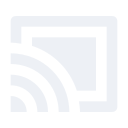
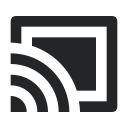
dark

diff --git a/style.css b/style.css
@@ -3,11 +3,11 @@
 }
 
 body {
-	background-color: #edf0f5 !important;
+	background-color: #242526 !important;
 }
 
 html {
-	background-color: #edf0f5;
+	background-color: #242526;
 	margin-left: 15%;
 	margin-right: 15%;
 }
@@ -16,7 +16,7 @@ html {
 .block {
 	margin-top: 7%;
 	margin-bottom: 1%;
-	background-color: #edf0f5 !important;
+	background-color: #242526 !important;
 }
 
 .section-title h2 {
@@ -36,9 +36,9 @@ html {
 
 .card {
 	border: 0px #eef2f7 !important;
-	background-color: #ffffff !important;
+	background-color: #303030 !important;
 	border-radius: 0.7vh !important;
-	box-shadow: 0 0.375rem 0.75rem rgba(0, 0, 0, 0.08) !important;
+	box-shadow: 0 0.375rem 0.75rem rgba(0, 0, 0, 0.3) !important;
 	transition: transform .3s, box-shadow .3s, background-color .3s, color .3s;
 }
 
@@ -51,34 +51,34 @@ html {
 .card:hover {
 	-webkit-transform: scale(.97, .97);
 	transform: scale(.97, .97);
-	box-shadow: 0 0.375rem 0.75rem rgba(0,0,0, 0.2) !important;
-	background-color: #ffffff !important;
+	box-shadow: 0 0.375rem 0.75rem rgba(0,0,0, 0.5) !important;
+	background-color: #353535 !important;
 }
 
 .card:hover .card-title {
-	color: #282828
+	color: #e4e6eb
 }
 
 
 .card:hover .card-text {
-	color: #282828
+	color: #b0b3b8
 }
 
 .col {
-	background-color: #edf0f5 !important;
+	background-color: #242526 !important;
 }
 
 .article {
 
-	background-color: #edf0f5;
+	background-color: #242526;
 }
 
 h1 {
-	background-color: #edf0f5 !important;
+	background-color: #242526 !important;
 	font-family: -apple-system, system-ui, BlinkMacSystemFont, Segoe UI, Roboto, Helvetica Neue, Arial, sans-serif;
 	margin-bottom: 3% !important;
 	font-weight: 700 !important;
-	color: #282828;
+	color: #e4e6eb;
 	margin-top: 7% !important;
 	letter-spacing: 1px;
 }
@@ -111,7 +111,7 @@ h1 {
 }
 
 .badge.bg-secondary:hover {
-	background-color: rgb(158, 158, 158) !important;
+	background-color: #5f86f9 !important;
 	cursor: pointer
 }
 
@@ -128,12 +128,12 @@ pre {
 
 .javascript.hljs.language-javascript,
 .python.hljs.language-python {
-	background-color: #ffffff !important;
-	color: #282828
+	background-color: #303030 !important;
+	color: #e4e6eb
 }
 
 .text {
-	color: #282828 !important;
+	color: #e4e6eb !important;
 	font-size: 200px !important
 }
 
@@ -200,17 +200,17 @@ p {
 
 .card-title {
 	font-weight: 700;
-	color: #282828;
+	color: #e4e6eb;
 }
 
 .card-text {
 	transition: color .3s;	
 	font-size: 15px;
-	color: #282828
+	color: #b0b3b8
 }
 
 .navbar.fixed-top {
-	background-color: #edf0f5 !important;
+	background-color: #303030 !important;
 }
 
 .python.hljs.language-python {
@@ -256,7 +256,7 @@ p {
 	}
 
 	html {
-		background-color: #edf0f5;
+		background-color: #242526;
 
 	}
 
@@ -275,7 +275,7 @@ p {
 	}
 
 	html {
-		background-color: #edf0f5;
+		background-color: #242526;
 		margin-left: 15%;
 		margin-right: 15%;
 	}
@@ -291,7 +291,7 @@ p {
 	}
 
 	html {
-		background-color: #edf0f5;
+		background-color: #242526;
 		margin-left: 6%;
 		margin-right: 6%;
 	}
@@ -309,7 +309,7 @@ p {
 }
 
 .navbar.navbar-expand-lg.fixed-top.active {
-	box-shadow: 0 0.5rem 0.5rem -0.5rem rgb(0 0 0 / 20%) !important
+	box-shadow: 0 0.5rem 0.5rem -0.5rem rgb(0 0 0 / 90%) !important
 }
 
 ::-webkit-scrollbar-corner {
@@ -318,7 +318,7 @@ p {
 }
 
 .nav-link.dropdown-toggle:hover {
-	color: black !important
+	color: white !important
 }
 
 .hljs-string {
@@ -327,13 +327,13 @@ p {
 }
 
 .pb-2.border-bottom {
-	color: #282828 !important;
+	color: #e4e6eb !important;
 	font-weight: 700;
 	letter-spacing: 2px;
 }
 
 p {
-	color: #282828;
+	color: #e4e6eb;
 }
 
 a#link {
@@ -342,7 +342,7 @@ a#link {
 
 .nav-link,
 .nav-link.active {
-	color: #282828 !important;
+	color: #e4e6eb !important;
 	font-weight: 600;
 	font-size: 16px;
 }
@@ -350,9 +350,9 @@ a#link {
 .dropdown:hover .dropdown-menu {
 	display: block;
 	border: 1px solid rgba(120, 120, 120, 0.05);
-	box-shadow: 0 0.375rem 0.75rem rgba(0,0,0, 0.2) !important;
+	box-shadow: 0 0.375rem 0.75rem rgba(0,0,0, 0.3) !important;
 	pointer-events: all !important;
-	background-color: #ffffff;
+	background-color: #303030;
 	line-height: 25px;
 	padding: 1vh;
 	border-radius: 0.7vh;
@@ -360,14 +360,14 @@ a#link {
 
 
 .dropdown-item {
-	color: #282828;
+	color: #e4e6eb;
 	border-radius: 0.5vh;
 	transition: font-weight .05s linear, color .05s linear;
 
 }
 
 .dropdown-item:hover {
-	color: #282828;
+	color: #e4e6eb;
 	font-weight: 700;
 
 }
@@ -399,7 +399,7 @@ a#link {
 }
 
 .navbar.navbar-dark.navbar-expand-lg.fixed-top {
-	background-color: #edf0f5 !important;
+	background-color: #303030 !important;
 }
 
 .nav-item,
@@ -413,21 +413,21 @@ a#link {
 }
 
 li {
-	color: #282828 !important
+	color: #e4e6eb !important
 }
 
 #spin {
 	margin-top: -30vh !important;
-	color: #282828 !important
+	color: #e4e6eb !important
 }
 
 #spintext {
 	margin-top: -25vh !important;
-	color: #282828 !important
+	color: #e4e6eb !important
 }
 
 .textaire {
-	background-color: #ffffff;
+	background-color: #303030;
 	padding: 1rem;
 	border-radius: 0.7vh;
 	margin-bottom: 2vh
@@ -445,11 +445,11 @@ ul {
 }
 
 #resume {
-	color: #282828
+	color: #b0b3b8
 }
 
 html::-webkit-scrollbar-track {
-	background-color: #ffffff;
+	background-color: #303030;
 }
 
 html::-webkit-scrollbar {
@@ -479,15 +479,15 @@ html::-webkit-scrollbar-thumb:hover {
 	background-image: none;
   }
   .navbar-toggler-icon {
-	background-image: url('image/paragraph.png');
+	background-image: url('image/bars.png');
   }
 
   .navbar-toggler:focus{
-	box-shadow: rgba(0,0,0, 0.16) 0px 1px 4px, rgb(150, 150, 150) 0px 0px 0px 1px;
+	box-shadow: rgba(163, 163, 163, 0.16) 0px 1px 4px, rgba(163, 163, 163, 0.16) 0px 0px 0px 1px;
   }
 
   #test{
-	color:#282828 !important
+	color:#e4e6eb !important
 
   }
 
@@ -495,18 +495,18 @@ html::-webkit-scrollbar-thumb:hover {
 	box-shadow: rgba(0,0,0, 0.5) 1.95px 1.95px 2.6px;
 padding: 6px 8px;
 font: 14px Segoe UI;
-background: #edf0f5;
+background: #242526;
 line-height: 24px;
 color: rgb(46, 46, 51);
 border-radius: 0.7vh;
 }
 
 .container-fluid{
-	background-color: #edf0f5  !important;
+	background-color: #303030  !important;
 }
 .navbar.navbar-dark.bg-dark{
-   background-color: #edf0f5  !important;
+   background-color: #303030  !important;
 }
 .navbar-brand{
-	color:#282828 !important
+	color:#e4e6eb !important
  }

diff --git a/index.html b/index.html
@@ -32,7 +32,7 @@
    <script src="https://cdn.jsdelivr.net/npm/bootstrap@5.2.0/dist/js/bootstrap.bundle.min.js" integrity="sha384-A3rJD856KowSb7dwlZdYEkO39Gagi7vIsF0jrRAoQmDKKtQBHUuLZ9AsSv4jD4Xa" crossorigin="anonymous"></script>
    <div class="container-fluid" id="footer"></div>
    <div class="titre">
-   <h2 class="pb-2 border-bottom border-2" style="border-bottom-color:rgb(200,200,200) !important;border-bottom-width: 1px !important;">Projets</h2></div>
+   <h2 class="pb-2 border-bottom border-2" style="border-bottom-color:#3e4042 !important;border-bottom-width: 1px !important;">Projets</h2></div>
    <a href="profil.html" style="text-decoration: none;">
      <div class="block">
        <div class="row row-cols-1 row-cols-md-3 g-4">
@@ -99,13 +99,13 @@
        margin-right: -1.9rem;
        margin-top:-0.4rem;
        border-radius: 0.7vh !important;
-      background-color: #282828;
-      padding:.375rem;
+      background-color: #e4e6eb;
+      padding:.25rem;
                         }
    
    </style>
    <br>
-   <h2 class="pb-2 border-bottom border-2" style="border-bottom-color:rgb(200,200,200) !important;border-bottom-width: 1px !important">Compétences</h2>
+   <h2 class="pb-2 border-bottom border-2" style="border-bottom-color:#3e4042 !important;border-bottom-width: 1px !important">Compétences</h2>
    <div class="row row-cols-1 row-cols-sm-2 row-cols-md-3 row-cols-lg-4 g-4 py-5">
      <div class="col d-flex align-items-start">
        <img src="image/drive.png" id="min" alt="">
